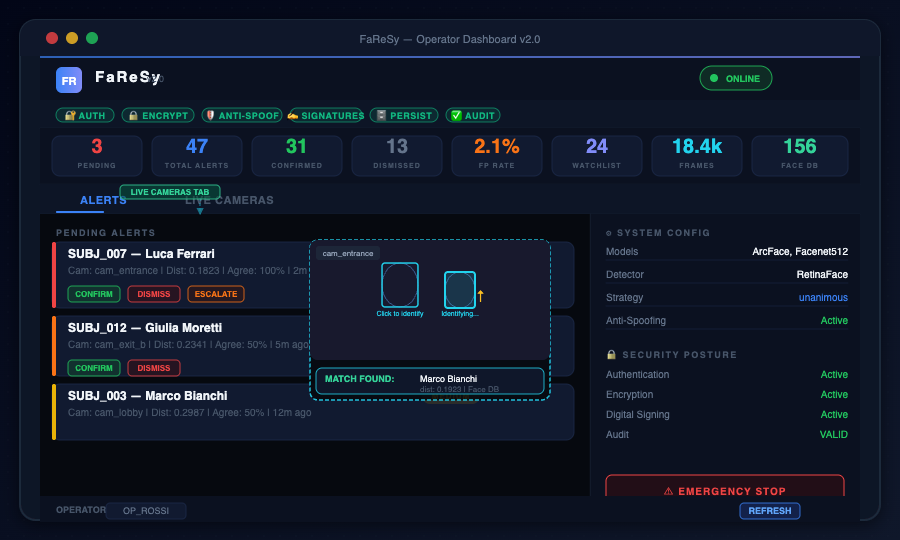
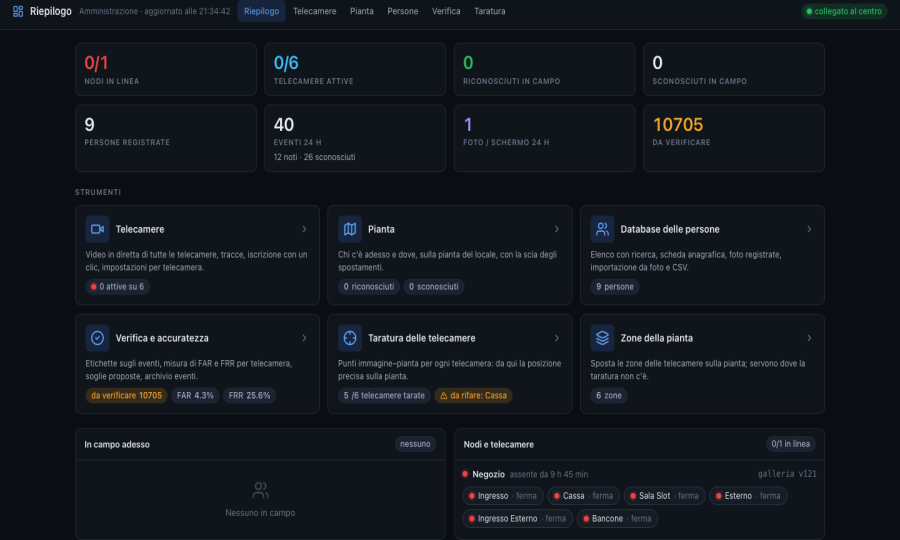
Le schermate vere dell'app al posto dei mockup
La pagina mostrava i disegni del README: un cruscotto v2.0 che non assomiglia
all'applicazione che c'e' adesso. Al loro posto tre schermate del sistema che
gira davvero — riepilogo, verifica e accuratezza, taratura delle telecamere —
e il mockup del cruscotto sparisce. La catena di riconoscimento e le difese
restano: quelle spiegano come e' fatto dentro, e nessuna schermata lo mostra.

Tutto quello che identifica qualcuno e' coperto, e non a mano: i nomi sono
stati riscritti nella COPIA del database prima di fotografare, cosi' non c'e'
nessuna corsa da vincere contro la pagina che si ridisegna da sola (al primo
tentativo li avevo sostituiti nel DOM, e la pagina me li rimetteva). I volti
sono sfocati da una regola CSS che vale anche per le miniature caricate dopo,
e la pianta pure: e' la planimetria di un locale esistente. La pagina lo dice
apertamente.

Due frasi erano diventate false davanti alle schermate stesse: "non e' in
produzione" e "nessuna installazione attiva, nessuna telecamera collegata".
Ce ne sono sei, con quasi quindicimila eventi e una misura dell'errore fatta
a mano. Riscritte su quello che si vede.

La scheda nella pagina d'ingresso adesso mostra il riepilogo vero.

diff --git a/faresy/index.html b/faresy/index.html
@@ -157,7 +157,7 @@
     <img class="insegna" src="img/faresy-banner.svg?v=1" alt="FaReSy — Face Recognition Surveillance System">
     <p class="claim">Riconoscimento facciale per la videosorveglianza, costruito
     attorno a una regola: la macchina propone, una persona decide.</p>
-    <span class="stato"><i></i> Sistema completo · non in produzione</span>
+    <span class="stato"><i></i> Sistema completo · in prova su un impianto vero</span>
   </header>
 
   <h2>Il problema</h2>
@@ -206,7 +206,39 @@
   da un mosaico</strong>, perché su una pagina pubblica non ci si mette la faccia di
   nessuno.</p>
 
-  <h2>Come è fatto</h2>
+  <h2>Com'è davvero</h2>
+  <div class="galleria">
+    <figure>
+      <button type="button" class="tessera" aria-label="Ingrandisci: il riepilogo">
+        <img src="img/app-riepilogo.png?v=1" alt="Il riepilogo del sistema, con i conteggi delle ultime 24 ore">
+      </button>
+      <figcaption>Il riepilogo: nodi e telecamere in linea, eventi delle ultime 24 ore divisi
+      fra noti e sconosciuti, tentativi con una foto o uno schermo, e quanti eventi restano da
+      verificare.</figcaption>
+    </figure>
+    <figure>
+      <button type="button" class="tessera" aria-label="Ingrandisci: verifica e accuratezza">
+        <img src="img/app-verifica.png?v=1" alt="La schermata di verifica: un verdetto per gruppo di volti simili">
+      </button>
+      <figcaption>Verifica e accuratezza: gli eventi arrivano raggruppati per volti simili e si
+      dà un verdetto per gruppo. Da quei verdetti nasce la misura dell'errore — quante volte
+      riconosce chi non è, e quante volte non riconosce chi è — telecamera per telecamera.</figcaption>
+    </figure>
+    <figure>
+      <button type="button" class="tessera" aria-label="Ingrandisci: la taratura delle telecamere">
+        <img src="img/app-taratura.png?v=1" alt="La taratura di una telecamera contro la pianta del locale">
+      </button>
+      <figcaption>La taratura: si segnano gli stessi punti sulla foto della telecamera e sulla
+      pianta, e da lì il sistema sa dove poggiano i piedi di chi inquadra. L'errore residuo è
+      scritto in centimetri, e ogni telecamera dice se è tarata bene o va rifatta.</figcaption>
+    </figure>
+  </div>
+  <p class="nota">Sono schermate del sistema che gira davvero, non disegni. <strong>I volti sono
+  coperti e i nomi sostituiti con nomi inventati</strong>: le persone in quell'archivio sono
+  vere e non c'entrano niente con questo sito. La pianta è sfocata per la stessa ragione — è la
+  planimetria di un locale esistente.</p>
+
+  <h2>Come funziona dentro</h2>
   <div class="galleria">
     <figure>
       <button type="button" class="tessera" aria-label="Ingrandisci: la catena di riconoscimento">
@@ -217,14 +249,6 @@
       e finisce comunque davanti a una persona prima di diventare qualcosa.</figcaption>
     </figure>
     <figure>
-      <button type="button" class="tessera" aria-label="Ingrandisci: la postazione dell'operatore">
-        <img src="img/faresy-dashboard.svg?v=1" alt="La postazione dell'operatore, con le segnalazioni da rivedere">
-      </button>
-      <figcaption>La postazione dell'operatore: le segnalazioni in attesa, le telecamere
-      dal vivo e il pulsante che ferma tutto. Ogni segnalazione si conferma, si scarta
-      o si porta avanti — non si ignora.</figcaption>
-    </figure>
-    <figure>
       <button type="button" class="tessera" aria-label="Ingrandisci: le difese del sistema">
         <img src="img/faresy-features.svg?v=1" alt="Le difese del sistema: cifratura, ruoli, registro firmato">
       </button>
@@ -233,9 +257,6 @@
       demografici.</figcaption>
     </figure>
   </div>
-  <p class="nota">Le immagini mostrano l'architettura e l'interfaccia del sistema. I nomi
-  e i numeri che si leggono nelle schermate sono inventati: non sono persone, e su questo
-  sito non c'è nessun dato biometrico.</p>
 
   <h2>Le regole che si è dato</h2>
   <p class="lead">I dati biometrici stanno fra le categorie particolari del GDPR (Art. 9)
@@ -247,10 +268,10 @@
   giuridico per trattare quei dati lo porta chi lo installa</strong>, non chi lo scrive.</p>
 
   <h2>A che punto è</h2>
-  <p class="lead">FaReSy è un <strong>sistema completo</strong>, con 226 prove automatiche
-  che girano a ogni modifica. <strong>Non è in produzione</strong>: non c'è nessuna
-  installazione attiva, nessuna telecamera collegata, nessun archivio di volti in
-  funzione. Questa pagina è una presentazione — il software non si scarica da qui.</p>
+  <p class="lead">FaReSy è un <strong>sistema completo</strong> ed è stato messo alla prova
+  su un impianto vero: sei telecamere, un archivio di quasi quindicimila eventi e una misura
+  dell'errore fatta a mano, evento per evento. <strong>Non è un prodotto in vendita</strong>:
+  da qui non si scarica niente, e questa pagina è una presentazione.</p>
 
   <footer>
     <div class="fwrap">
